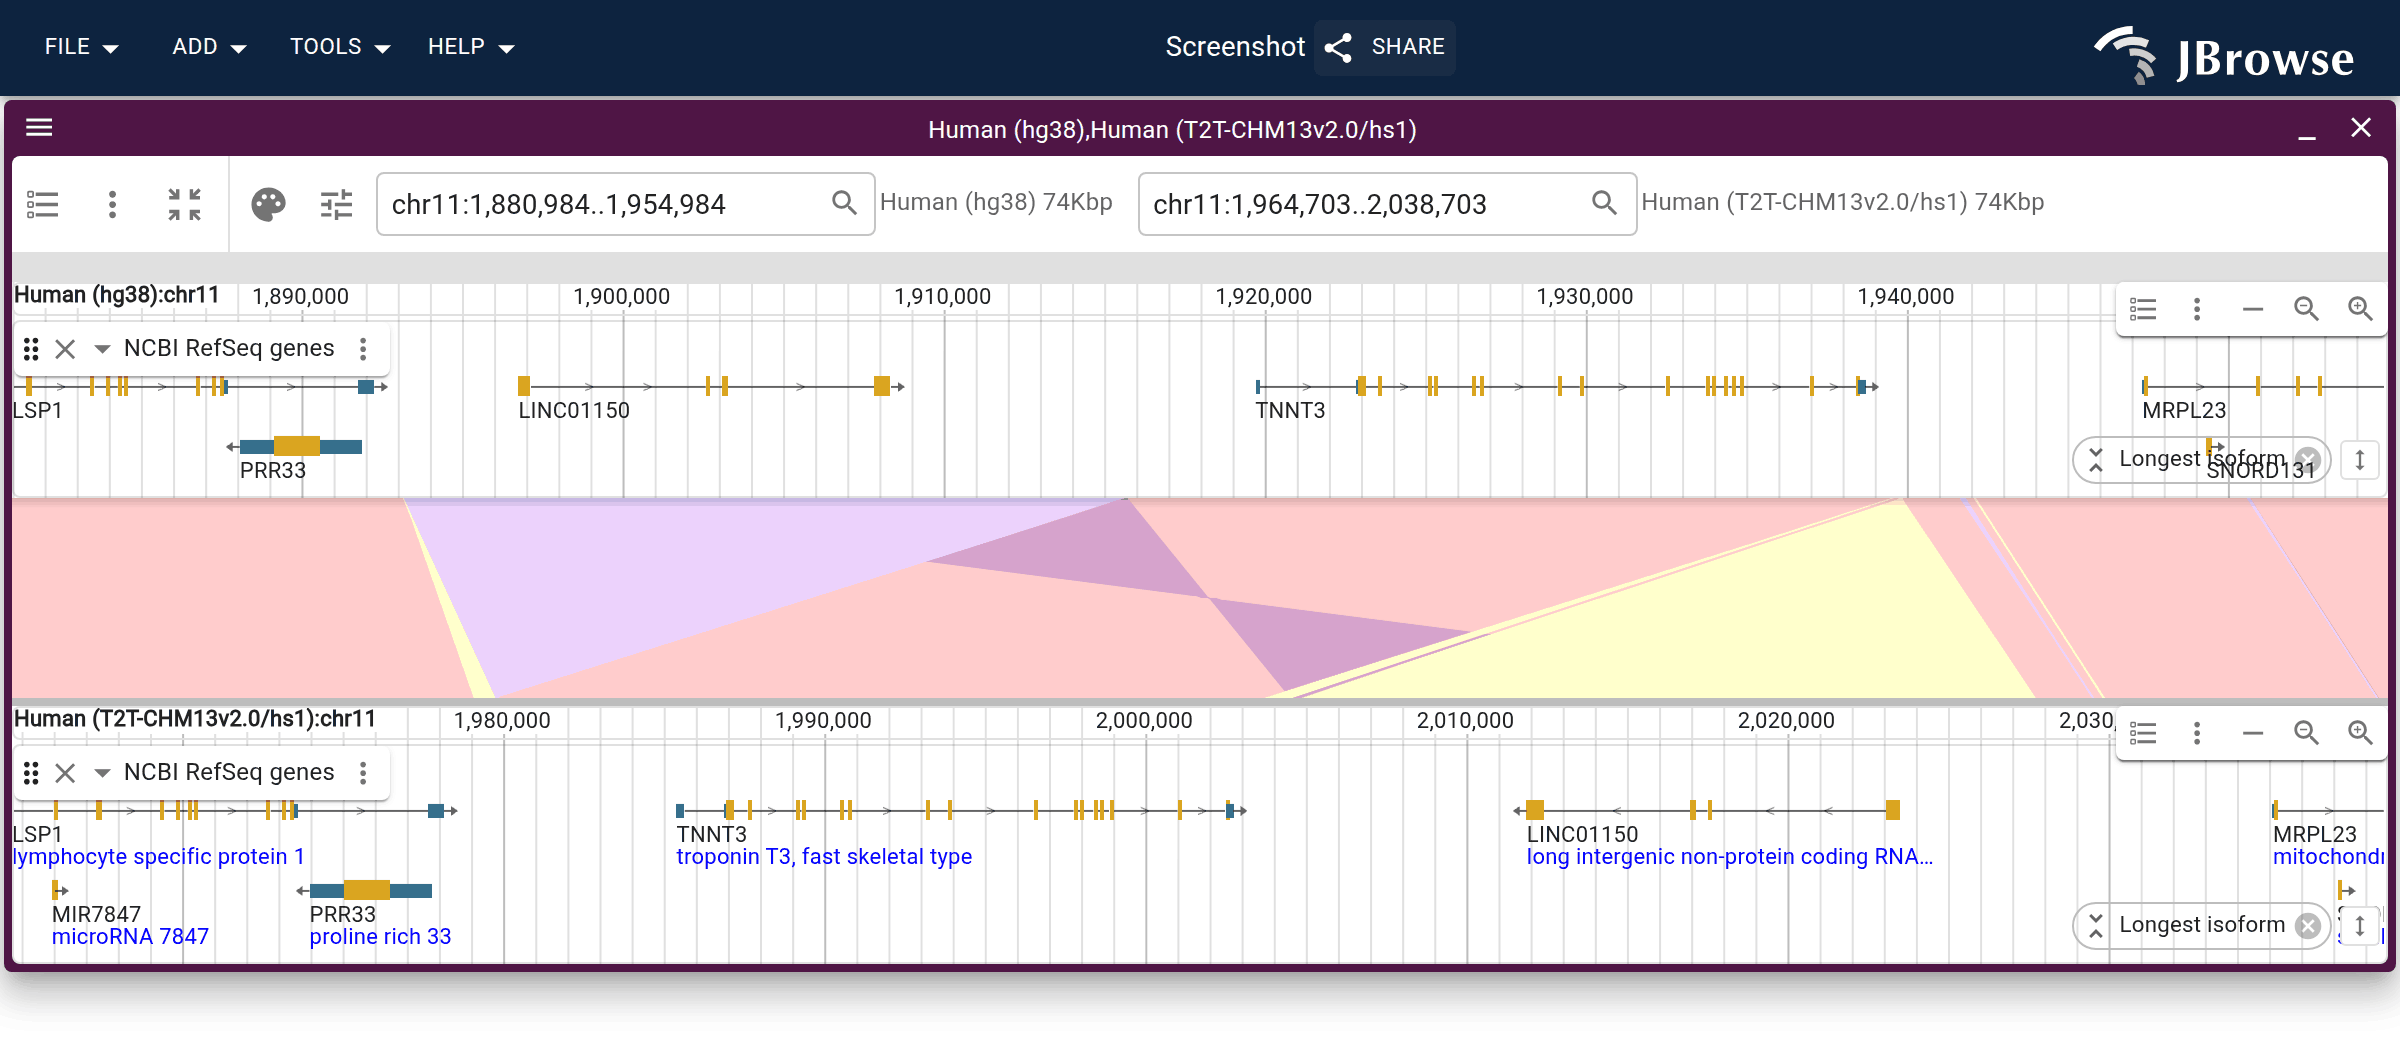
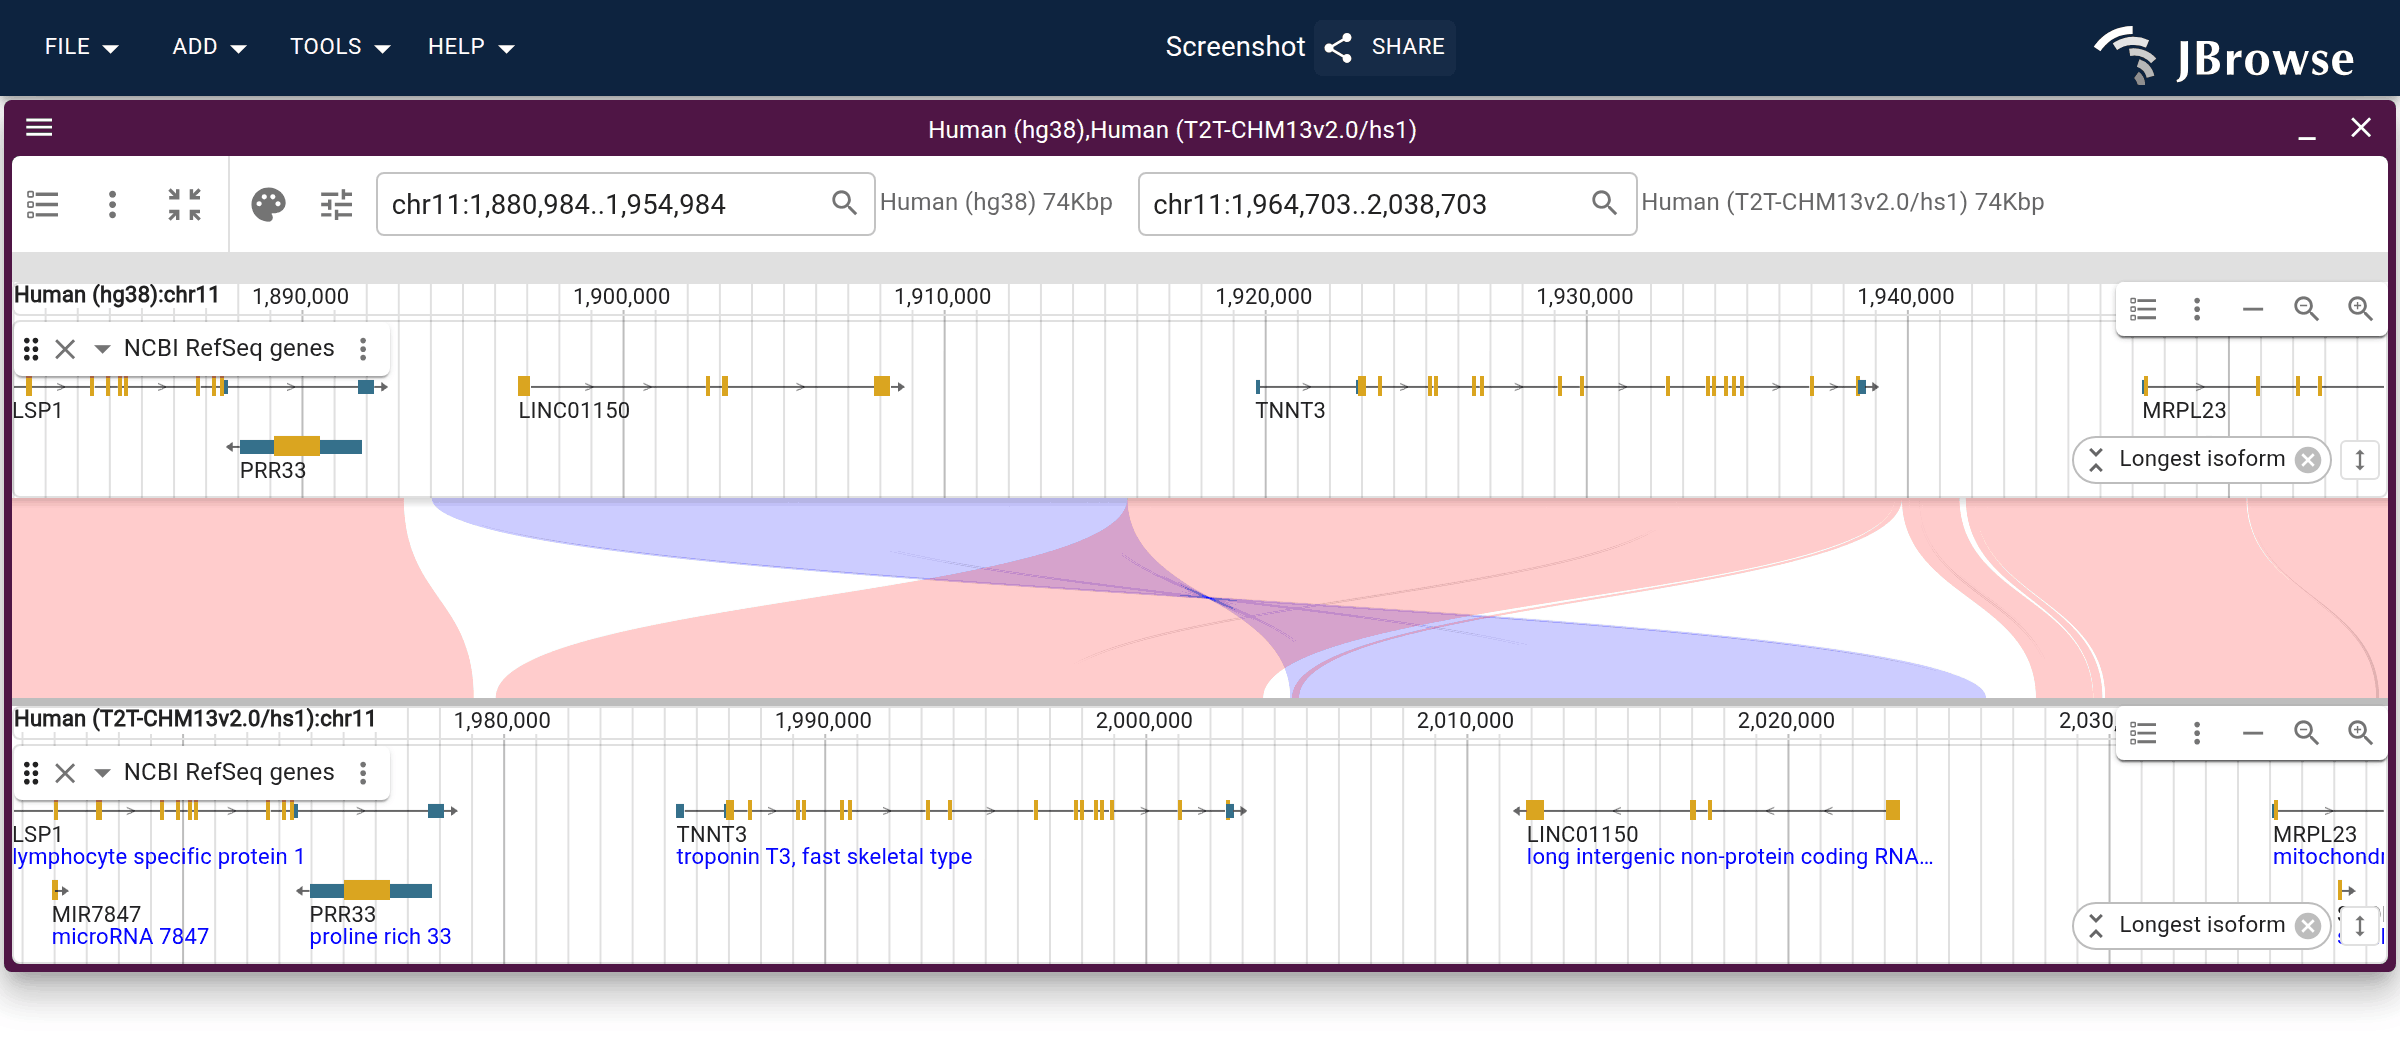
docs(website): show the TNNT3 synteny figure with curves and transparent indels
The gallery card and the genomes_synteny payoff figure now render the view
with curved ribbons and 'matches' CIGAR mode, so strand is the only thing
color means and the transposed block reads at a glance. Move the tutorial's
two-settings section ahead of that figure, since it is now the state those
settings produce.

Claude-Session: https://claude.ai/code/session_01Ltu9oGtni53kEgjJe2Lvqt

Changed region(s): [[0.1562, 0.4615, 0.875, 0.6769], [0.9062, 0.4308, 0.9688, 0.4615]]

diff --git a/website/src/lib/galleryLinks.generated.ts b/website/src/lib/galleryLinks.generated.ts
@@ -17,7 +17,7 @@ export const specSessionUrls: Record<string, string> = {
   "multiway_synteny/ecoli_import_form": "?config=https%3A%2F%2Fjbrowse.org%2Fdemos%2Fecoli_pangenome%2Fconfig.json&session=spec-%7B%22views%22%3A%5B%5D%7D&sessionName=Screenshot",
   "linear_synteny_gallery": "?config=test_data%2Fconfig_dotplot.json&session=share-4MjF5YGM_G&password=rByjt",
   "hs1_vs_mm39_synteny": "?config=test_data/hs1_vs_mm39/config.json&session=spec-%7B%22views%22%3A%5B%7B%22type%22%3A%22LinearSyntenyView%22%2C%22tracks%22%3A%5B%22hs1ToMm39.over.chain.pif%22%5D%2C%22minAlignmentLength%22%3A500000%2C%22drawCurves%22%3Afalse%2C%22autoDiagonalize%22%3Atrue%2C%22colorBy%22%3A%22query%22%2C%22alpha%22%3A0.4%2C%22levelHeights%22%3A%5B350%5D%2C%22views%22%3A%5B%7B%22assembly%22%3A%22hs1%22%7D%2C%7B%22assembly%22%3A%22mm39%22%7D%5D%7D%5D%7D&sessionName=Screenshot",
-  "synteny_hg38_hs1_tnnt3": "?config=test_data/hg38_hs1_synteny/config.json&session=spec-%7B%22views%22%3A%5B%7B%22type%22%3A%22LinearSyntenyView%22%2C%22colorBy%22%3A%22strand%22%2C%22tracks%22%3A%5B%5B%22hg38_hs1_synteny%22%5D%5D%2C%22views%22%3A%5B%7B%22assembly%22%3A%22hg38%22%2C%22loc%22%3A%22chr11%3A1%2C881%2C000-1%2C955%2C000%22%2C%22tracks%22%3A%5B%7B%22trackId%22%3A%22hg38-genes%22%2C%22geneGlyphMode%22%3A%22longestCoding%22%7D%5D%2C%22trackLabels%22%3A%22offset%22%7D%2C%7B%22assembly%22%3A%22hs1%22%2C%22loc%22%3A%22chr11%3A1%2C964%2C700-2%2C038%2C700%22%2C%22tracks%22%3A%5B%7B%22trackId%22%3A%22hs1-genes%22%2C%22geneGlyphMode%22%3A%22longestCoding%22%2C%22showOnlyGenes%22%3Atrue%7D%5D%2C%22trackLabels%22%3A%22offset%22%7D%5D%7D%5D%7D&sessionName=Screenshot",
+  "synteny_hg38_hs1_tnnt3": "?config=test_data/hg38_hs1_synteny/config.json&session=spec-%7B%22views%22%3A%5B%7B%22type%22%3A%22LinearSyntenyView%22%2C%22colorBy%22%3A%22strand%22%2C%22tracks%22%3A%5B%5B%22hg38_hs1_synteny%22%5D%5D%2C%22drawCurves%22%3Atrue%2C%22cigarMode%22%3A%22matches%22%2C%22views%22%3A%5B%7B%22assembly%22%3A%22hg38%22%2C%22loc%22%3A%22chr11%3A1%2C881%2C000-1%2C955%2C000%22%2C%22tracks%22%3A%5B%7B%22trackId%22%3A%22hg38-genes%22%2C%22geneGlyphMode%22%3A%22longestCoding%22%7D%5D%2C%22trackLabels%22%3A%22offset%22%7D%2C%7B%22assembly%22%3A%22hs1%22%2C%22loc%22%3A%22chr11%3A1%2C964%2C700-2%2C038%2C700%22%2C%22tracks%22%3A%5B%7B%22trackId%22%3A%22hs1-genes%22%2C%22geneGlyphMode%22%3A%22longestCoding%22%2C%22showOnlyGenes%22%3Atrue%7D%5D%2C%22trackLabels%22%3A%22offset%22%7D%5D%7D%5D%7D&sessionName=Screenshot",
   "genomes_synteny/ribbons_default": "?config=test_data/hg38_hs1_synteny/config.json&session=spec-%7B%22views%22%3A%5B%7B%22type%22%3A%22LinearSyntenyView%22%2C%22colorBy%22%3A%22strand%22%2C%22tracks%22%3A%5B%5B%22hg38_hs1_synteny%22%5D%5D%2C%22views%22%3A%5B%7B%22assembly%22%3A%22hg38%22%2C%22loc%22%3A%22chr11%3A1%2C881%2C000-1%2C955%2C000%22%2C%22tracks%22%3A%5B%7B%22trackId%22%3A%22hg38-genes%22%2C%22geneGlyphMode%22%3A%22longestCoding%22%7D%5D%2C%22trackLabels%22%3A%22offset%22%7D%2C%7B%22assembly%22%3A%22hs1%22%2C%22loc%22%3A%22chr11%3A1%2C964%2C700-2%2C038%2C700%22%2C%22tracks%22%3A%5B%7B%22trackId%22%3A%22hs1-genes%22%2C%22geneGlyphMode%22%3A%22longestCoding%22%2C%22showOnlyGenes%22%3Atrue%7D%5D%2C%22trackLabels%22%3A%22offset%22%7D%5D%7D%5D%7D&sessionName=Screenshot",
   "genomes_synteny/ribbons_curved": "?config=test_data/hg38_hs1_synteny/config.json&session=spec-%7B%22views%22%3A%5B%7B%22type%22%3A%22LinearSyntenyView%22%2C%22colorBy%22%3A%22strand%22%2C%22tracks%22%3A%5B%5B%22hg38_hs1_synteny%22%5D%5D%2C%22drawCurves%22%3Atrue%2C%22cigarMode%22%3A%22matches%22%2C%22views%22%3A%5B%7B%22assembly%22%3A%22hg38%22%2C%22loc%22%3A%22chr11%3A1%2C881%2C000-1%2C955%2C000%22%2C%22tracks%22%3A%5B%7B%22trackId%22%3A%22hg38-genes%22%2C%22geneGlyphMode%22%3A%22longestCoding%22%7D%5D%2C%22trackLabels%22%3A%22offset%22%7D%2C%7B%22assembly%22%3A%22hs1%22%2C%22loc%22%3A%22chr11%3A1%2C964%2C700-2%2C038%2C700%22%2C%22tracks%22%3A%5B%7B%22trackId%22%3A%22hs1-genes%22%2C%22geneGlyphMode%22%3A%22longestCoding%22%2C%22showOnlyGenes%22%3Atrue%7D%5D%2C%22trackLabels%22%3A%22offset%22%7D%5D%7D%5D%7D&sessionName=Screenshot",
   "genomes_synteny/lgv_liftover": "?config=https%3A%2F%2Fjbrowse.org%2Fucsc%2Fhg38%2Fconfig.json&session=spec-%7B%22views%22%3A%5B%7B%22type%22%3A%22LinearGenomeView%22%2C%22assembly%22%3A%22hg38%22%2C%22loc%22%3A%22chr11%3A1%2C881%2C000-1%2C955%2C000%22%2C%22tracks%22%3A%5B%7B%22trackId%22%3A%22hg38-ncbiRefSeqCurated%22%2C%22geneGlyphMode%22%3A%22longestCoding%22%7D%2C%7B%22trackId%22%3A%22hg38_to_hs1_liftOver%22%7D%5D%7D%5D%7D&sessionName=Screenshot",

diff --git a/website/scripts/specs/synteny.ts b/website/scripts/specs/synteny.ts
@@ -599,11 +599,13 @@ export const syntenySpecs: ScreenshotSpec[] = [
   // ablating LINC01150 in every individual; against T2T-CHM13 the same 22 kb is
   // simply inversely transposed to the other side of TNNT3. colorBy 'strand'
   // paints that flipped segment against the collinear ribbons around it, so the
-  // rearrangement is the only off-color block in the view.
+  // rearrangement is the only off-color block in the view. Curved ribbons plus
+  // 'matches' (transparent indels) keep strand the only thing color means, which
+  // is what makes the flipped block read at a glance.
   {
     ...TNNT3_FRAME,
     name: 'synteny_hg38_hs1_tnnt3',
-    url: tnnt3Session(),
+    url: tnnt3Session({ drawCurves: true, cigarMode: 'matches' }),
   },
 
   // Two-part figure for the genomes_synteny tutorial: the same view as it opens

diff --git a/website/docs/tutorials/genomes_synteny.md b/website/docs/tutorials/genomes_synteny.md
@@ -60,15 +60,6 @@ looking at, rather than framing on the whole block's endpoints.
 track drawn as ribbons between the panels. Set the ribbon coloring to **Strand**
 from the palette button in the synteny track header.
 
-This is the payoff: _TNNT3_ is the locus from Fig 5C of the T2T human variation
-paper. Called against GRCh38 the region reads as a 24 kb inversion plus a 22 kb
-deletion that ablates _LINC01150_ in every individual; against T2T-CHM13 that
-same 22 kb is intact, just sitting on the other side of _TNNT3_ in the opposite
-orientation. Colored by strand, that segment is the one off-color ribbon in the
-view.
-
-<Figure caption="hg38 (top) vs T2T-CHM13/hs1 (bottom) at TNNT3, colored by strand. LINC01150 sits upstream of TNNT3 in hg38 and downstream of it in T2T-CHM13, and the purple ribbon is the segment that moved." src="/img/synteny_hg38_hs1_tnnt3.png" />
-
 ## Two settings worth changing
 
 Both live on the synteny view's **View options** button:
@@ -81,6 +72,16 @@ Both live on the synteny view's **View options** button:
   coloring on, that keeps color meaning only one thing.
 
 <Figure src="/img/genomes_synteny/ribbon_settings.png" links="As it opens=genomes_synteny/ribbons_default,Curved + transparent indels=genomes_synteny/ribbons_curved" caption="The same TNNT3 comparison before and after both settings. Top: straight ribbons with colored indels. Bottom: curved ribbons with transparent indels, where the indels drop out to white and the reverse-strand segment is a single blue sweep crossing the forward-strand pink." />
+
+## The rearrangement
+
+_TNNT3_ is the locus from Fig 5C of the T2T human variation paper. Called
+against GRCh38 the region reads as a 24 kb inversion plus a 22 kb deletion that
+ablates _LINC01150_ in every individual; against T2T-CHM13 that same 22 kb is
+intact, just sitting on the other side of _TNNT3_ in the opposite orientation.
+Colored by strand, that segment is the one off-color ribbon in the view.
+
+<Figure caption="hg38 (top) vs T2T-CHM13/hs1 (bottom) at TNNT3, colored by strand with curved ribbons and transparent indels. LINC01150 sits upstream of TNNT3 in hg38 and downstream of it in T2T-CHM13, and the purple ribbon is the segment that moved." src="/img/synteny_hg38_hs1_tnnt3.png" />
 
 ## Trying other pairs
 
